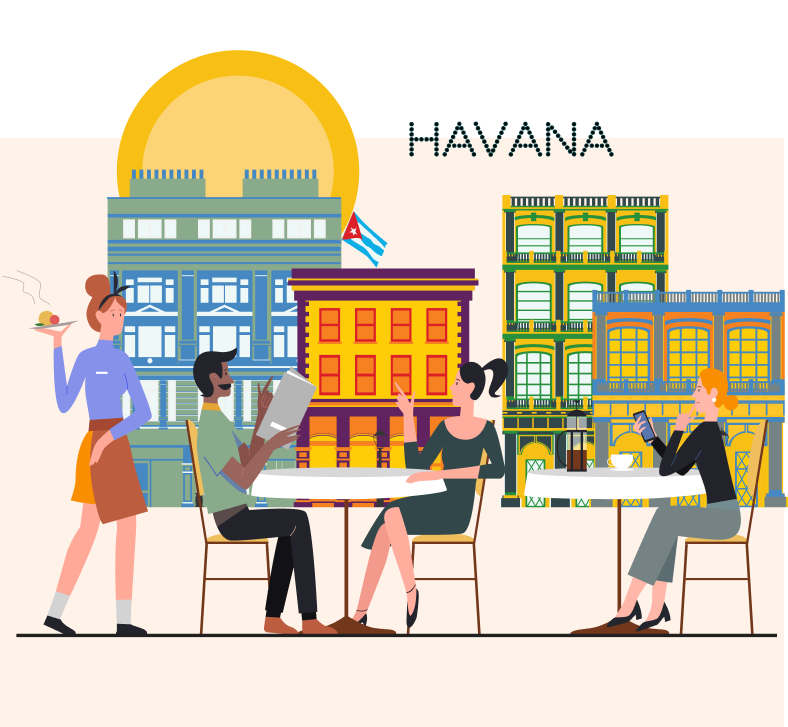
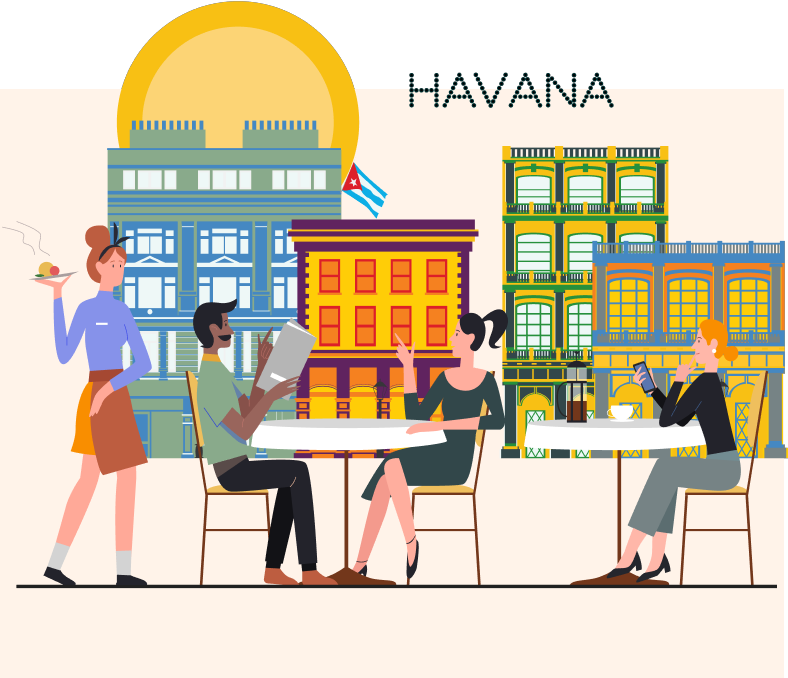
History Section

diff --git a/src/styles/components/_History.scss b/src/styles/components/_History.scss
@@ -1,0 +1,78 @@
+.history {
+	margin: 200px 150px 100px 150px;
+	display: flex;
+	gap: 80px;
+	align-items: center;
+	position: relative;
+
+	.img_container {
+		width: 60%;
+		height: auto;
+
+		img {
+			width: 100%;
+			height: 100%;
+		}
+	}
+
+	.content {
+		width: 40%;
+		margin-top: 50px;
+
+		p {
+			margin-top: 15px;
+
+			span {
+				font-weight: normal;
+				color: #518855;
+			}
+		}
+	}
+
+	.logo {
+		position: absolute;
+		left: 0;
+		bottom: -75px;
+		z-index: -1;
+
+		img {
+			width: 97px;
+			height: 105px;
+		}
+	}
+}
+
+@include tablet-screen {
+	.history {
+		margin: 100px 20px 100px 20px;
+		gap: 50px;
+		flex-direction: column;
+
+		.img_container {
+			width: 100%;
+			height: auto;
+
+			img {
+				width: 100%;
+				height: 100%;
+			}
+		}
+
+		.content {
+			width: 100%;
+			margin-top: 0;
+
+			p {
+				margin-top: 15px;
+			}
+		}
+
+		.logo {
+			bottom: -100px;
+			img {
+				width: 80px;
+				height: 90px;
+			}
+		}
+	}
+}

diff --git a/src/components/History.js b/src/components/History.js
@@ -1,0 +1,27 @@
+import HavanaImg from '../assets/HavanaImg.png'
+import Logo3 from '../assets/Logo3.png'
+
+const History = () => {
+	return (
+		<div className="history" id="history">
+			<div className="content">
+				<h2>The History of “Paladares”</h2>
+				<p>
+					Paladar is the name used by Cuban for restaurants. For many years, the paladares were authentic underground restaurants where
+					people served meals in their own homes, expecially to tourists who wanted to live a diferente experience and interact with the
+					local population.
+				</p>
+			</div>
+
+			<div className="img_container">
+				<img src={HavanaImg} alt="havana" />
+			</div>
+
+			<div className="logo">
+				<img src={Logo3} alt="Logo2" />
+			</div>
+		</div>
+	)
+}
+
+export default History

diff --git a/src/containers/UserLandingPage.js b/src/containers/UserLandingPage.js
@@ -2,6 +2,7 @@ import React from 'react'
 import ProblemSection from '../components/ProblemSection'
 import UserHeader from '../components/UserHeader'
 import Solution from './../components/Solution'
+import History from './../components/History'
 
 const LandingPage = () => {
 	return (
@@ -9,6 +10,7 @@ const LandingPage = () => {
 			<UserHeader />
 			<ProblemSection />
 			<Solution />
+			<History />
 		</div>
 	)
 }

diff --git a/src/styles/components/_components.scss b/src/styles/components/_components.scss
@@ -2,3 +2,4 @@
 @import './UserHeader';
 @import './ProblemSection';
 @import './Solution';
+@import './History';
